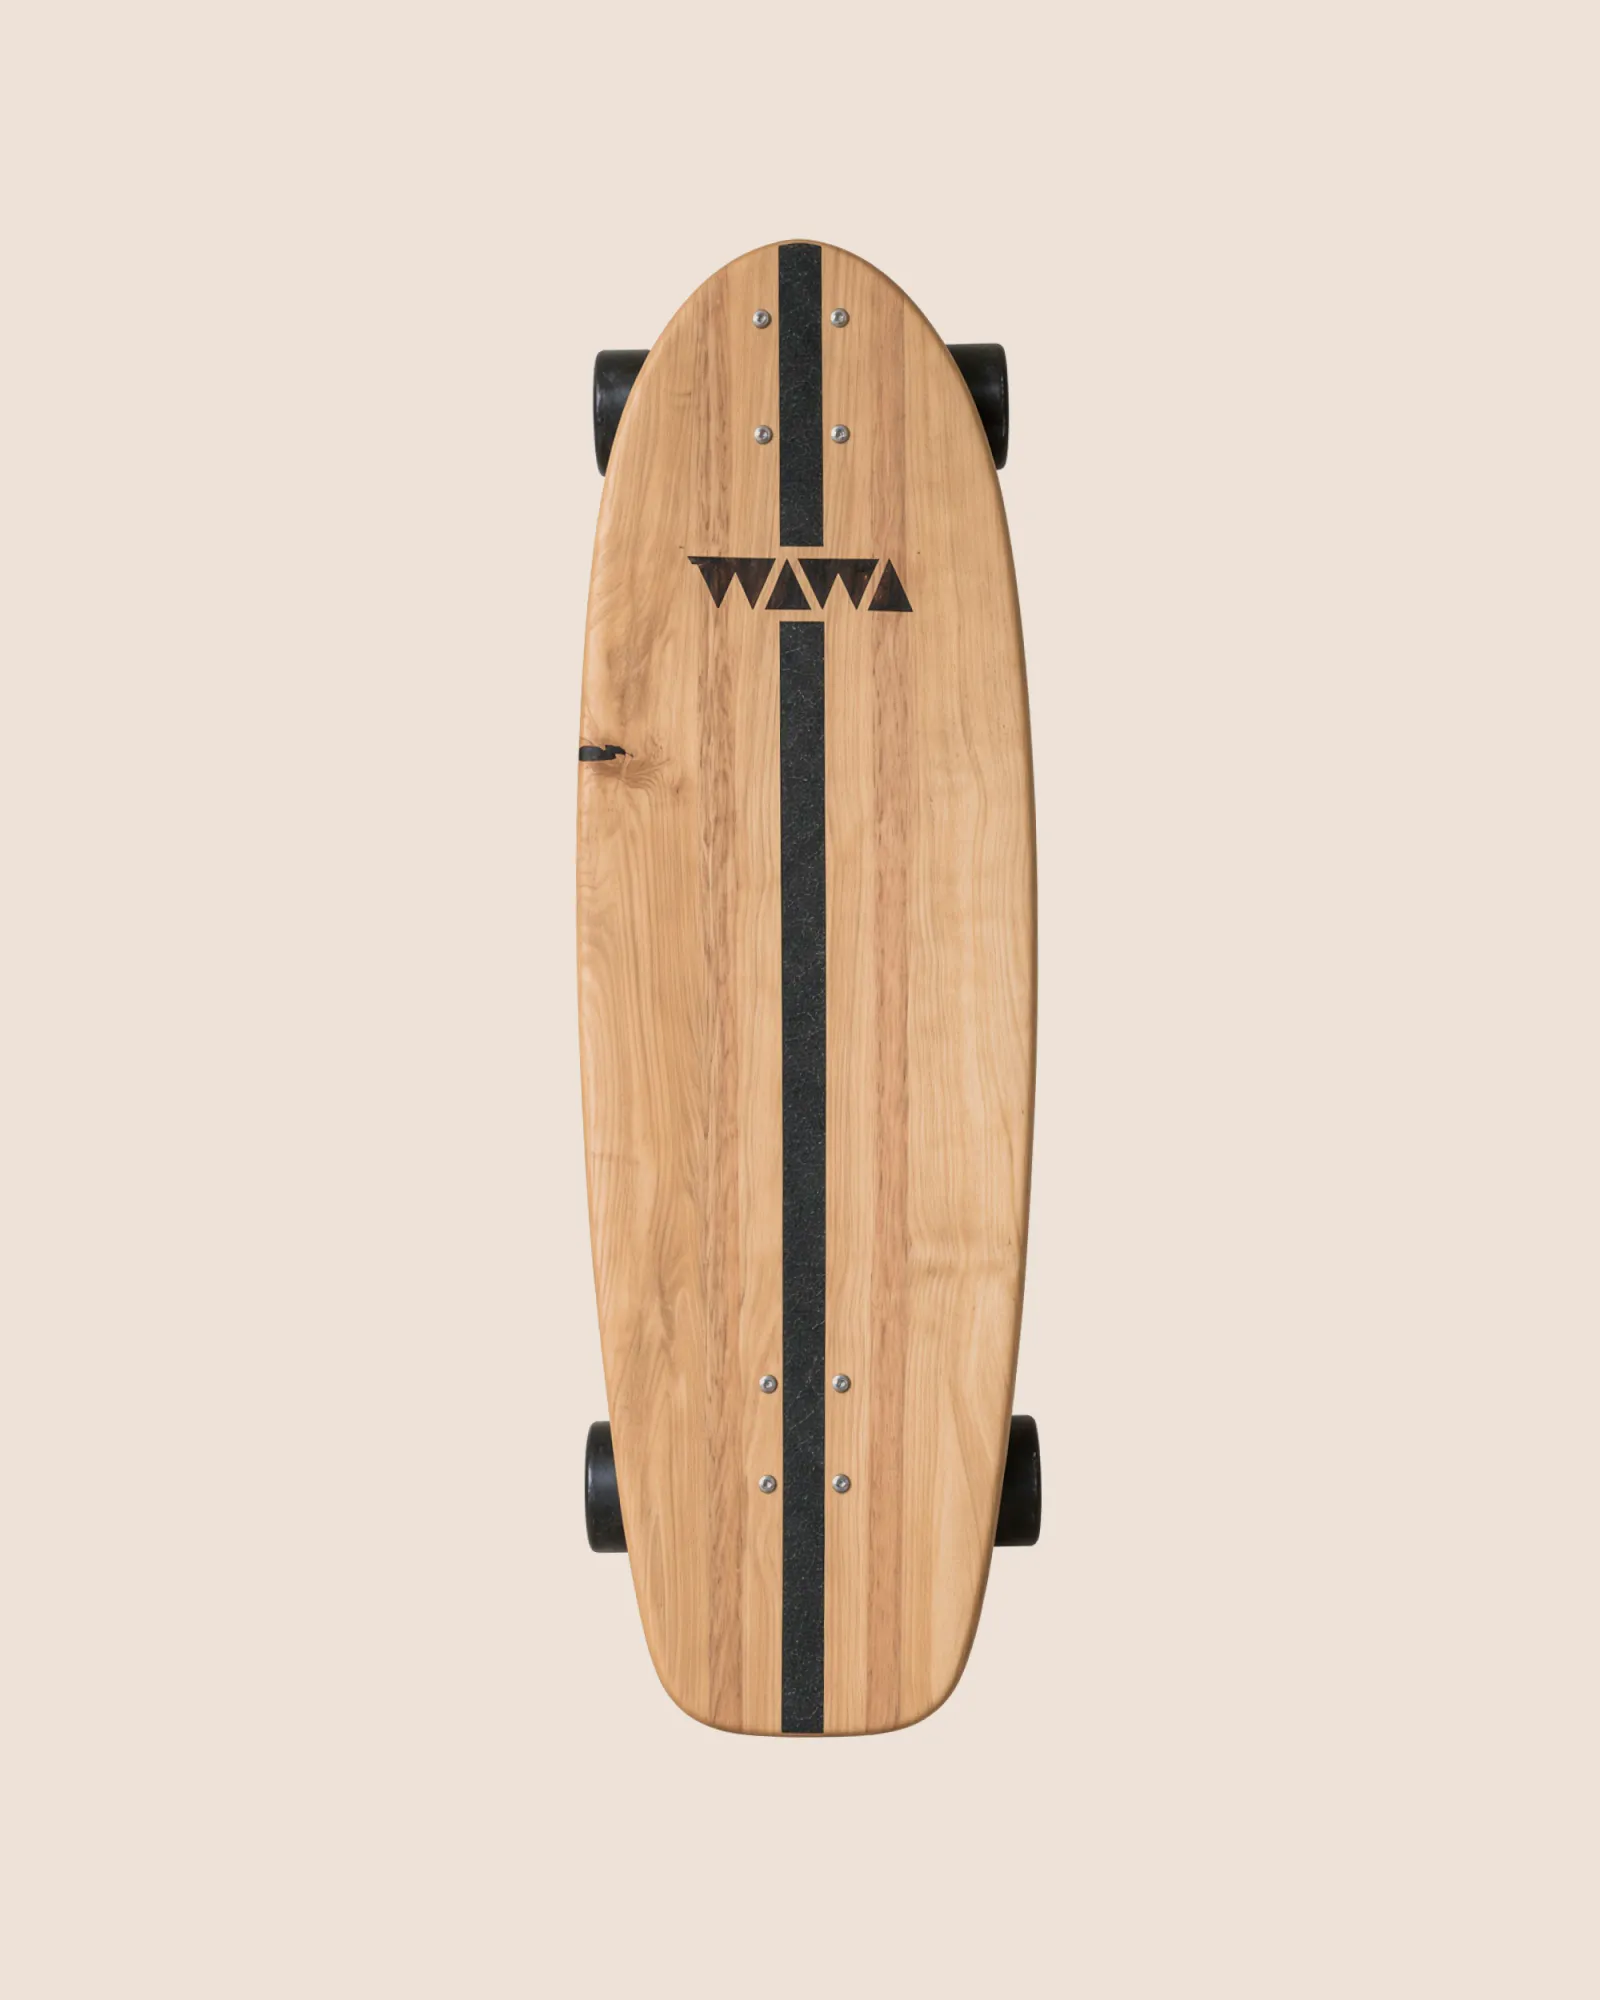
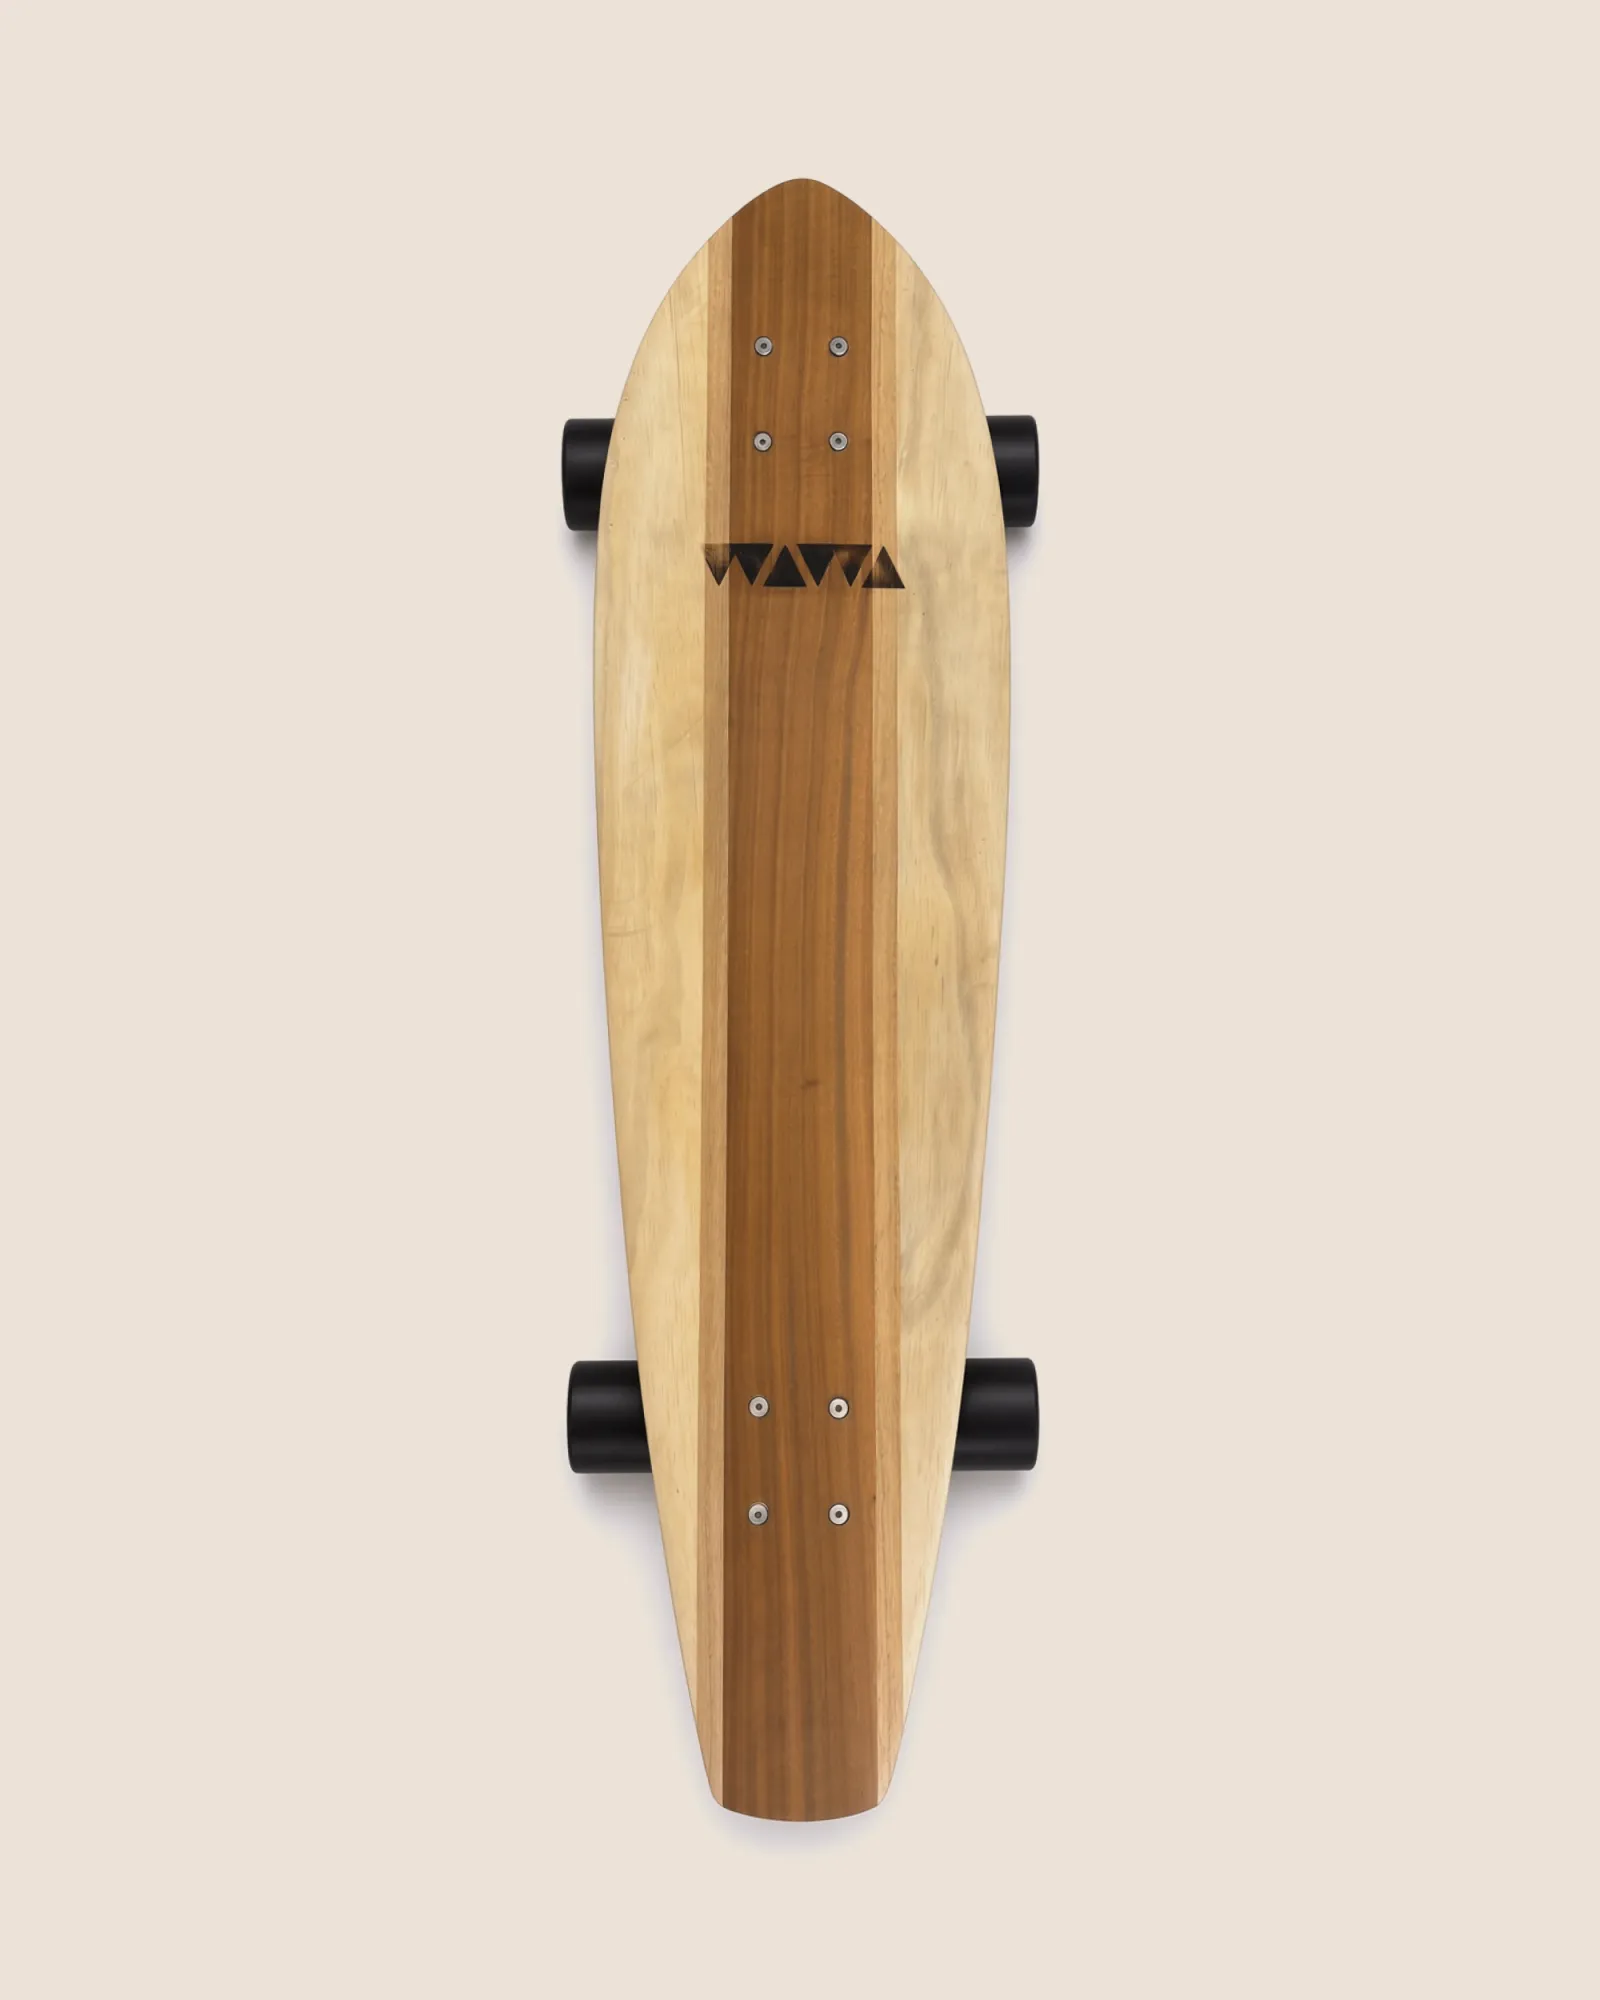
feat: skate and handslide photos, Handslide Pro product
- New Wooden Cruiser deck + underside shots; the old cruiser photo moves
  to the Wooden Surfskate (rounded tail), plus its underside and the
  swallow-tail deck/underside
- Handslide Pro: its own listing (premium hardwood teardrop, adjustable
  neoprene strap), sold via the adjustable variant of the Shopify
  Handslide; the Handslide keeps the red webbing strap only
- Drop cork from the cruiser, surfskate and handslide copy/specs

Changed region(s): [[0.3438, 0.093, 0.6562, 0.93]]

diff --git a/src/data/products.ts b/src/data/products.ts
@@ -33,6 +33,8 @@ const woodIsGood = studioSet('wood-is-good-tee');
 const tote = studioSet('tote');
 const carryall = studioSet('carryall');
 const cruiser = studioSet('cruiser');
+const surfskate = studioSet('surfskate');
+const surfskateSwallow = studioSet('surfskate-swallow');
 const foilWave = studioSet('foil-wave');
 const foilProne = studioSet('foil-prone');
 const kiteTomo = studioSet('kite-tomo');
@@ -45,6 +47,7 @@ const swallowTee = studioSet('swallow-tee');
 const beachBats = studioSet('beach-bats');
 const paipo = studioSet('paipo');
 const handslide = studioSet('handslide');
+const handslidePro = studioSet('handslide-pro');
 const boardCover = studioSet('board-cover');
 const giftCard = studioSet('gift-card');
 const waxComb = studioSet('wax-comb');
@@ -481,7 +484,7 @@ export const products: Product[] = [
     handle: 'wooden-cruiser',
     title: 'Wooden Cruiser',
     description:
-      'For the days the sea goes flat. A wooden cruiser built from the same paulownia and cork as the boards, warm underfoot and lively through a turn, finished to age with salt and sun. Keep surfing when there’s no surf. 30–40" long, as a deck on its own or complete with trucks, wheels and bearings.',
+      'For the days the sea goes flat. A solid timber cruiser, warm underfoot and lively through a turn, finished to age with salt and sun. Keep surfing when there’s no surf. 30–40" long, as a deck on its own or complete with trucks, wheels and bearings.',
     productType: 'Skate',
     tags: [],
     availableForSale: true,
@@ -492,7 +495,10 @@ export const products: Product[] = [
     ],
     priceRange: { minVariantPrice: zar('2750.00') },
     // one shot so far — no back, so no hover swap
-    images: [cruiser.front('Wawa Wooden Cruiser, deck')],
+    images: [
+      cruiser.front('Wawa Wooden Cruiser deck from above, a dark wood centre stripe between pale outer strips'),
+      cruiser.back('Underside of the Wawa Wooden Cruiser, with layered wooden rails, trucks and black wheels'),
+    ],
     specs: [
       [
         { label: 'Best For', value: 'Flat days and cruising' },
@@ -501,7 +507,7 @@ export const products: Product[] = [
       ],
       [
         { label: 'Designer', value: 'Cobus Joubert' },
-        { label: 'Material', value: 'Paulownia & cork' },
+        { label: 'Material', value: 'Solid timber' },
         { label: 'Finish', value: 'Matte' },
       ],
     ],
@@ -511,7 +517,7 @@ export const products: Product[] = [
     handle: 'wooden-surfskate',
     title: 'Wooden Surfskate',
     description:
-      'The cruiser’s shorter, surfier sibling. A 28–30" paulownia and cork deck for tight, flowing carves on flat days, with a rounded or swallow tail. Buy the deck on its own, or complete with trucks, wheels and bearings.',
+      'The cruiser’s shorter, surfier sibling. A 28–30" solid timber deck for tight, flowing carves on flat days, with a rounded or swallow tail. Buy the deck on its own, or complete with trucks, wheels and bearings.',
     productType: 'Skate',
     tags: [],
     availableForSale: true,
@@ -523,7 +529,12 @@ export const products: Product[] = [
       { title: 'Swallow tail, complete', id: '41465933037632', price: '6000.00' },
     ],
     priceRange: { minVariantPrice: zar('2750.00') },
-    images: soon('Wawa Wooden Surfskate'),
+    images: [
+      surfskate.front('Wawa Wooden Surfskate, rounded tail, deck with a black centre stripe'),
+      surfskate.back('Underside of the rounded-tail Wawa Wooden Surfskate, with a blue centre stripe, black trucks and cream wheels'),
+      surfskateSwallow.front('Wawa Wooden Surfskate, swallow tail, striped wooden deck'),
+      surfskateSwallow.back('Underside of the swallow-tail Wawa Wooden Surfskate, with a red centre stripe, black trucks and cream wheels'),
+    ],
     specs: [
       [
         { label: 'Best For', value: 'Flat days and carving' },
@@ -532,7 +543,7 @@ export const products: Product[] = [
       ],
       [
         { label: 'Designer', value: 'Cobus Joubert' },
-        { label: 'Material', value: 'Paulownia & cork' },
+        { label: 'Material', value: 'Solid timber' },
         { label: 'Finish', value: 'Matte' },
       ],
     ],
@@ -594,11 +605,7 @@ export const products: Product[] = [
     productType: 'Body & Belly',
     tags: ['Bodysurf'],
     availableForSale: true,
-    optionName: 'Hand strap',
-    variants: [
-      { title: 'Red webbing', id: '41465789972544', price: '950.00' },
-      { title: 'Adjustable neoprene', id: '41465790005312', price: '1950.00' },
-    ],
+    variantId: '41465789972544',
     priceRange: { minVariantPrice: zar('950.00') },
     images: [
       handslide.front('Wawa handslide with red hand strap and burnt-in logo, held against a sunlit wall'),
@@ -613,7 +620,36 @@ export const products: Product[] = [
       ],
       [
         { label: 'Designer', value: 'Cobus Joubert' },
-        { label: 'Material', value: 'Paulownia & cork' },
+        { label: 'Material', value: 'Solid timber' },
+        { label: 'Finish', value: 'Matte' },
+      ],
+    ],
+  },
+  {
+    id: 'mock/handslide-pro',
+    handle: 'handslide-pro',
+    title: 'Handslide Pro',
+    description:
+      'A step up from the Handslide: its own teardrop shape, cut from premium hardwood, with an adjustable neoprene strap that cinches to your hand and stays put through the wave. Made locally, for bodysurfers who are in the water most days. Comes with a Wawa-branded calico bag.',
+    productType: 'Body & Belly',
+    tags: ['Bodysurf'],
+    availableForSale: true,
+    // sold as the adjustable-strap variant of the Shopify Handslide product
+    variantId: '41465790005312',
+    priceRange: { minVariantPrice: zar('1950.00') },
+    images: [
+      handslidePro.front('Wawa Handslide Pro in dark striped wood with an adjustable black neoprene strap and burnt-in logo'),
+      handslidePro.back('Underside of the Wawa Handslide Pro, stamped Handcrafted in Cape Town'),
+    ],
+    specs: [
+      [
+        { label: 'Best For', value: 'Bodysurfing' },
+        { label: 'Board Feel', value: 'Fast and direct' },
+        { label: 'Skill Level', value: 'All levels' },
+      ],
+      [
+        { label: 'Designer', value: 'Cobus Joubert' },
+        { label: 'Material', value: 'Premium hardwood' },
         { label: 'Finish', value: 'Matte' },
       ],
     ],
